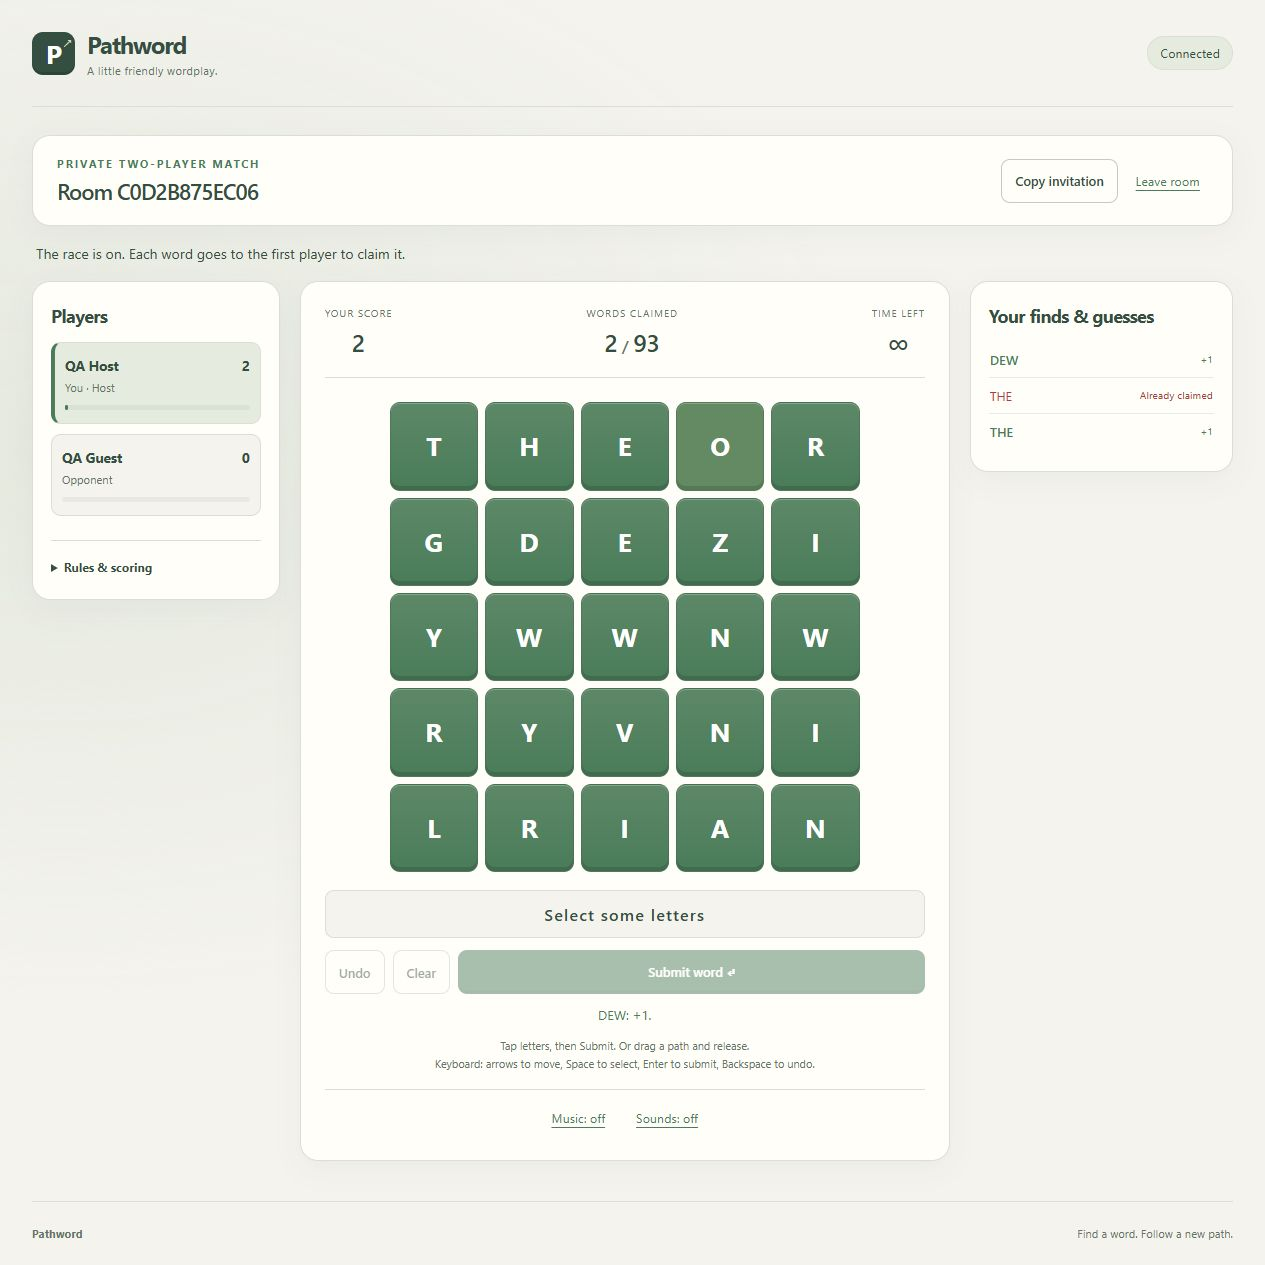
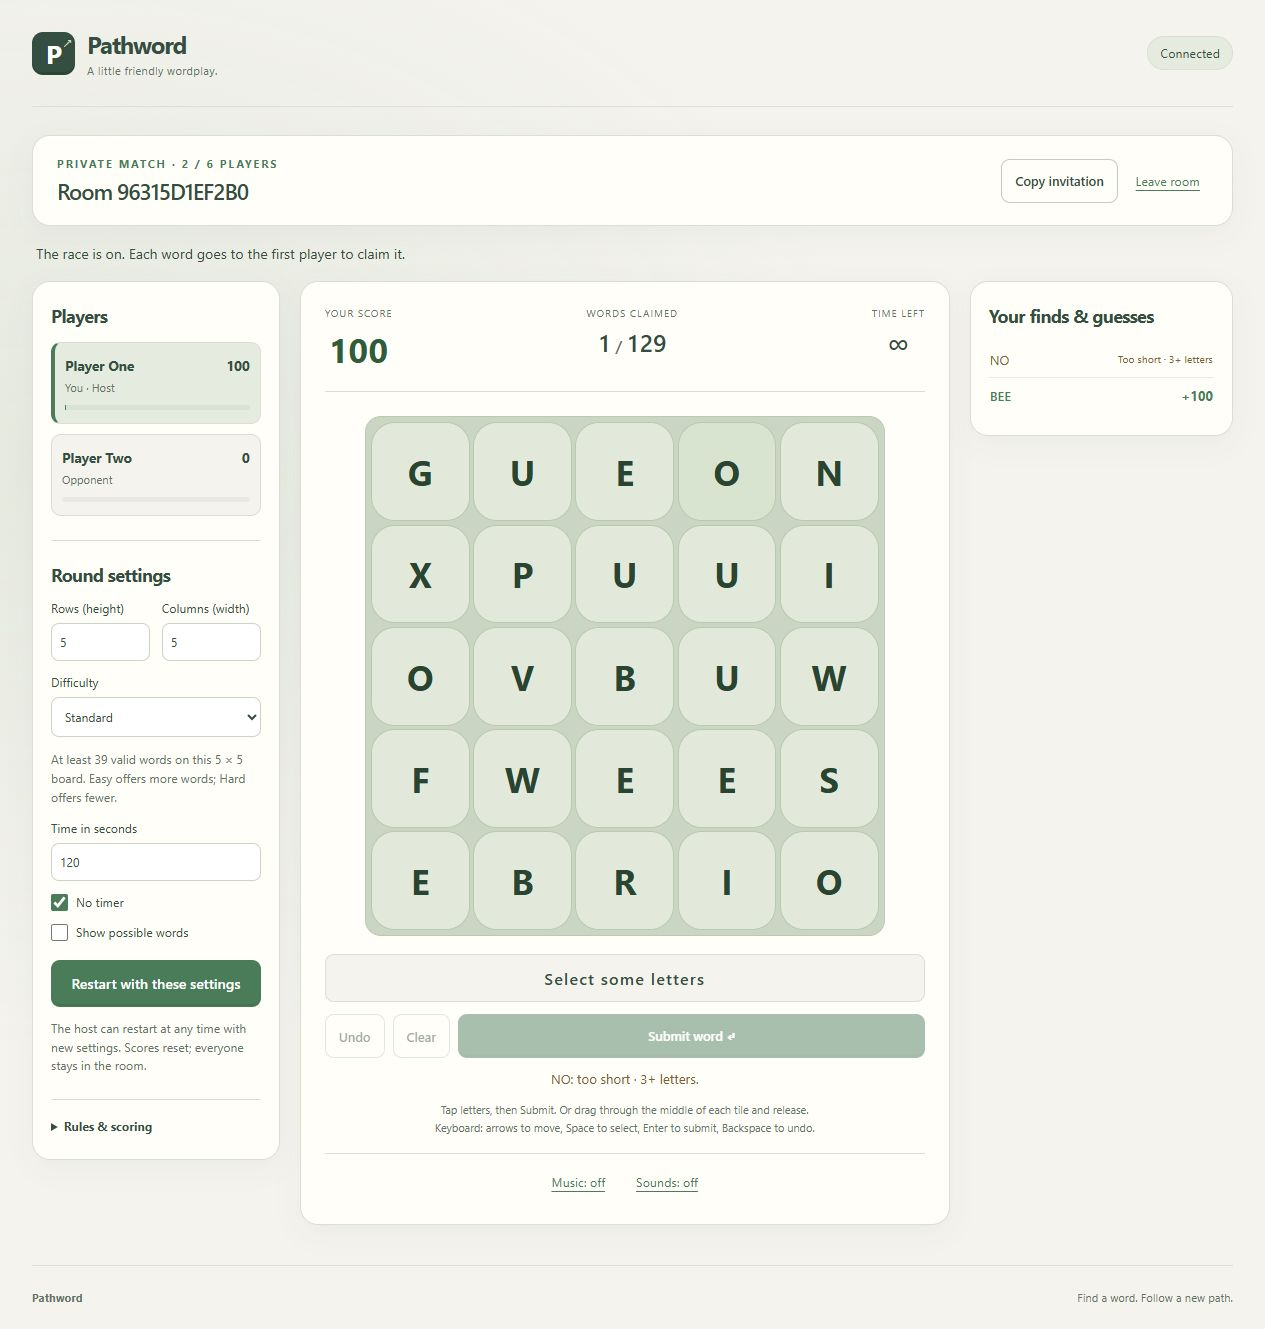
Update Pathword portfolio for six-player configurable rounds

diff --git a/_projects/pathword/index.md b/_projects/pathword/index.md
@@ -1,7 +1,7 @@
 ---
 layout: post
 title: Pathword — private multiplayer word puzzles
-description: A recovered browser word-path game with solo practice, private two-player races, authoritative scoring and reconnect recovery.
+description: A browser word-path game with solo practice, private races for up to six players, adjustable board difficulty and rounds that can restart without disconnecting.
 skills:
   - JavaScript and Node.js
   - WebSocket multiplayer
@@ -11,22 +11,26 @@ tags: [JavaScript, WebSockets, Game development]
 areas: [software]
 order: 9
 image: /projects/pathword/pathword-gameplay.png
-image_alt: Pathword two-player match with a five-by-five letter board, player scores and word-claim history.
+image_alt: Pathword multiplayer match with a letter board, player scores and word-claim history.
 thumb: /projects/pathword/pathword-gameplay.png
 permalink: /projects/pathword/
 published: true
 ---
 
-Pathword is a browser word-path puzzle: trace adjacent letters to find words, practise solo, or invite a friend to race on the same board. Each word is awarded to the first valid claim received by the server.
+Pathword is a browser word-path puzzle: trace adjacent letters to find words, practise solo, or invite friends to a private race for two to six players. Each word is awarded to the first valid claim received by the server.
 
 **[Play Pathword](https://pathword.onrender.com)**
 
-I recovered an unfinished HTML/JavaScript prototype and completed its room lifecycle, two-player scoring and reconnection behaviour. The interface supports pointer and keyboard selection, adjustable boards and timed or untimed rounds. Solo practice can be finished early to review the results and start a fresh puzzle with the same settings.
+I recovered an unfinished HTML/JavaScript prototype and completed its room lifecycle, multiplayer scoring and reconnection behaviour. Boards can have two to ten rows and two to ten columns, independently, with timed or untimed rounds. A three- or four-letter word earns 100 points, with larger rewards for longer words. Short guesses receive a length explanation rather than being labelled invalid words.
 
-The multiplayer server validates tile paths and calculates scores rather than trusting client-supplied totals. It sends both players an authoritative snapshot of the puzzle, claims, scores and deadline. A private session token restores a player's position after a brief disconnect.
+Difficulty controls word abundance. Easy favours boards with more valid words, Standard selects a middle range, and Hard favours fewer options. The shared generator rejects boards below a minimum based on their dimensions and neighbouring tile connections, with a bounded search to keep generation manageable.
 
-The project uses vanilla HTML/CSS/JavaScript, Node.js and WebSockets. Solo practice shares its puzzle engine with the server. All 21 local automated checks pass, covering simultaneous claims, invalid moves and messages, room isolation, reconnection, expiry, pointer cancellation and static-file access. Local browser checks cover solo and two-player rounds, score recovery, rematches, and layouts down to 320 pixels wide. The live Render deployment also passed browser verification and 19 hosted protocol assertions. Physical touchscreen testing remains outstanding.
+The host can change dimensions, difficulty, time or word-list visibility during a round and restart for everyone without losing the room or player connections. Solo practice has the same restart controls. Drag selection follows the inner area of each tile to tolerate small diagonal slips, interpolates fast pointer movement and shows the selected path; keyboard and individual-tile selection are also supported. Softer tile colours and reduced gap contrast make dense boards easier to view.
+
+The multiplayer server validates tile paths and calculates scores rather than trusting client-supplied totals. It sends every player an authoritative snapshot of the puzzle, claims, scores and deadline. A private session token restores a player's position after a brief disconnect. Restart requests are restricted to the host and the current round; if generation fails, the existing puzzle and scores remain available.
+
+The project uses vanilla HTML/CSS/JavaScript, Node.js and WebSockets. Solo practice shares its puzzle engine with the server. Automated checks cover every supported board shape and difficulty, six-player capacity, simultaneous claims, invalid moves and messages, reconnect recovery, active-round restarts, failed generation, pointer paths and static-file access. Browser checks complement these tests for layout and interaction. Physical touchscreen testing remains outstanding.
 
 The game runs on a free Render service with one server process. It may take a little time to wake after inactivity, and free-plan quotas limit availability. Private rooms last up to 30 minutes and disappear on service restart; if a room is no longer available, create a new invitation. These limits keep the initial release suitable for casual play and a portfolio demonstration.
 
-The screenshot above shows an actual local two-player test match captured on 20 October 2026.
+The screenshot above shows an actual hosted test match captured on 20 October 2026.
